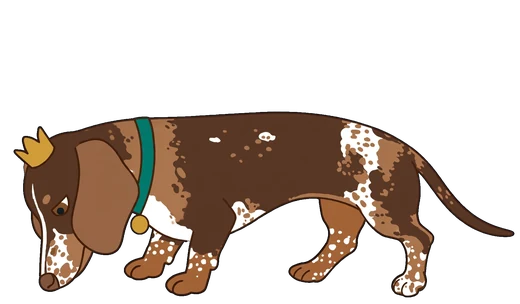
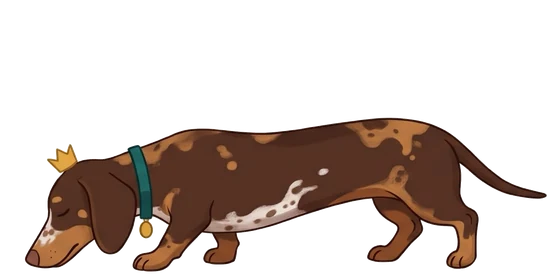
Todi from every illustration the owner sent: the four-on-a-sheet drawing on the street, the pink-backed set on the 404, his face from the car drawing on the search page
Claude-Session: https://claude.ai/code/session_01APuSXpyq9ev8sxuYFfmXoX

diff --git a/website/templates/_todi_dog.html b/website/templates/_todi_dog.html
@@ -1,10 +1,11 @@
-{# 2026-11-13 (owner: "this is what I have, work on it"): Todi from the owner's own illustrations, four poses of the
-   same drawing on one frame (static/todi/, cut out of their background): two walking steps, sniffing, looking up.
-   todi.js sets the pose classes (.is-walking, .is-sniffing, .is-looking) and the flip; style.css shows the right
-   picture, and while walking swaps the two steps. Decoration only. #}
-<span class="todi-dog todi-pic{{ ' ' ~ extra_class if extra_class else '' }}" aria-hidden="true">
-  <img class="f-walk1" src="/static/todi/todi-walk1.webp?v={{ static_version }}" alt="" width="520" height="304" decoding="async">
-  <img class="f-walk2" src="/static/todi/todi-walk2.webp?v={{ static_version }}" alt="" width="520" height="304" decoding="async">
-  <img class="f-sniff" src="/static/todi/todi-sniff.webp?v={{ static_version }}" alt="" width="520" height="304" decoding="async">
-  <img class="f-look" src="/static/todi/todi-look.webp?v={{ static_version }}" alt="" width="520" height="304" decoding="async">
+{# 2026-11-13 (owner: "this is what I have, work on it"; "use them all"): Todi from the owner's own illustrations, four
+   poses of the same drawing aligned on one frame (static/todi/, cut out of their background): two walking steps,
+   sniffing, looking up. Two sets: the four-on-one-sheet drawing (the default, the hero's street) and the pink-backed
+   one (todi_set = "pink-", the 404). todi.js sets the pose classes (.is-walking, .is-sniffing, .is-looking) and the
+   flip; style.css shows the right picture and, while walking, swaps the two steps. Decoration only. #}
+{% set _set = todi_set | default("") %}
+{% set _w, _h = (520, 304) if _set == "pink-" else (560, 276) %}
+<span class="todi-dog todi-pic{{ ' ' ~ extra_class if extra_class else '' }}" style="--ar: {{ _w }} / {{ _h }}" aria-hidden="true">
+  {% for pose in ("walk1", "walk2", "sniff", "look") %}<img class="f-{{ pose }}" src="/static/todi/{{ _set }}todi-{{ pose }}.webp?v={{ static_version }}" alt="" width="{{ _w }}" height="{{ _h }}" decoding="async">
+  {% endfor %}
 </span>

diff --git a/website/static/style.css b/website/static/style.css
@@ -2775,7 +2775,7 @@ html.is-app .app-add, html.is-app .app-sheet { display: none !important; }
    Todi (templates/_todi_dog.html): four pictures of the same drawing on one frame. One shows at a time: the first
    step when standing, the sniff, the look up; while walking the two steps take turns with a small bob. All of it
    stops for reduced motion and for the accessibility menu's "stop motion" (he then just stands). */
-.todi-pic { position: relative; display: block; width: 100%; aspect-ratio: 520 / 304; }
+.todi-pic { position: relative; display: block; width: 100%; aspect-ratio: var(--ar, 560 / 276); }
 .todi-pic img { position: absolute; inset: 0; width: 100%; height: 100%; opacity: 0; }
 .todi-pic .f-walk1 { opacity: 1; }
 .todi-pic.is-sniffing .f-walk1, .todi-pic.is-looking .f-walk1 { opacity: 0; }
@@ -2833,6 +2833,12 @@ html.a11y-no-motion .paw-steps i { opacity: .5; }
 /* the search page: the trail shows the moment the form is sent, until the results page comes in */
 .psearch-wait { margin: 26px 0 8px; padding: 22px 16px; border-radius: var(--radius-lg, 20px); background: var(--card); border: 1px solid var(--border); font-weight: 600; flex-wrap: wrap; text-align: center; }
 .psearch-wait[hidden] { display: none; }
+/* Todi's face (from the owner's illustration of him in the car), nodding along while he sniffs */
+.psearch-todi { width: 54px; height: 54px; border-radius: 50%; flex: none; box-shadow: 0 0 0 3px var(--card), 0 0 0 4px var(--border); }
+@media (prefers-reduced-motion: no-preference) {
+  html:not(.a11y-no-motion) .psearch-todi { animation: td-nod 1.1s ease-in-out infinite; }
+}
+@keyframes td-nod { 0%, 100% { transform: rotate(0deg); } 30% { transform: rotate(-6deg) translateY(2px); } 60% { transform: rotate(4deg); } }
 
 /* the 404 page: Todi follows a trail of scent and can't find the page (404.html runs the story with todi.js) */
 .lost-scene { position: relative; width: min(320px, 100%); height: 120px; margin: 0 auto 18px; }

diff --git a/website/templates/search.html b/website/templates/search.html
@@ -40,6 +40,7 @@
   {# 2026-11-13 (owner: paw prints instead of a spinning wheel): from the moment the form is sent until the results
      page comes in #}
   <div class="psearch-wait paw-trail" id="psearch-wait" role="status" hidden>
+    <img class="psearch-todi" src="/static/todi/todi-face.webp?v={{ static_version }}" alt="" width="54" height="54" loading="lazy">
     <span class="paw-steps" aria-hidden="true"><i></i><i></i><i></i><i></i><i></i><i></i></span>
     <span>{{ t('search.sniffing') }}</span>
   </div>

diff --git a/website/templates/404.html b/website/templates/404.html
@@ -5,7 +5,7 @@
   {# 2026-11-13 (owner: drawings of Todi on the site): Todi sniffs along a trail for the page and can't find it #}
   <div class="lost-scene" id="lost-scene" aria-hidden="true">
     <span class="lost-trail"></span>
-    <div class="td-walker" id="lost-walker">{% include "_todi_dog.html" %}</div>
+    {% set todi_set = "pink-" %}<div class="td-walker" id="lost-walker">{% include "_todi_dog.html" %}</div>
     <span class="lost-q" id="lost-q">?</span>
   </div>
   <p>{{ t('404.body') }}</p>

diff --git a/tests/test_site_animations.py b/tests/test_site_animations.py
@@ -102,7 +102,7 @@ def test_every_new_motion_stops_for_reduced_motion_and_the_accessibility_menu():
     """Each new looping animation is written behind both switches: the visitor's "reduce motion" and the site's own
     accessibility menu ("stop motion" puts .a11y-no-motion on the page)."""
     css = (STATIC / "style.css").read_text() + (STATIC / "home.css").read_text()
-    for name in ("td-step-a", "td-step-b", "td-bob", "td-sniff", "paw-print", "lp-pin-drop", "lp-route"):
+    for name in ("td-step-a", "td-step-b", "td-bob", "td-sniff", "td-nod", "paw-print", "lp-pin-drop", "lp-route"):
         uses = [line for line in css.splitlines() if re.search(r"animation:\s*" + name + r"\b", line)]
         assert uses, name
         assert all("html:not(.a11y-no-motion)" in line for line in uses), name
@@ -132,3 +132,7 @@ def test_todi_is_the_owners_four_pictures(client):
         assert f"/static/todi/todi-{pose}.webp" in html
         assert (STATIC / "todi" / f"todi-{pose}.webp").stat().st_size < 60_000
     assert "todi3d" not in html and not (STATIC / "todi3d.js").exists()
+    # the 404 has the pink-backed set, the search page Todi's face from the car drawing
+    lost = client.get("/no-such-page-at-all").text
+    assert "/static/todi/pink-todi-sniff.webp" in lost and "/static/todi/todi-walk1.webp" not in lost
+    assert "/static/todi/todi-face.webp" in client.get("/search?lang=he").text

diff --git a/HANDOFF.md b/HANDOFF.md
@@ -34,8 +34,8 @@
 
 ## בתהליך
 - PR האנימציות מוזג (13.11, 05:00). PR #1019 (`claude/footer-and-3d-todi`): תחתית הדף ב-4 קטגוריות; הכפתורים הצפים
-  (נגישות, עוזר, הוספה למסך הבית) בשורה אחת מעל כפתור הבוט הצמוד; טודי ברחוב וב-404 מ-4 האיורים של אמיר
-  (`static/todi/`, רקע הוסר). טודי בתלת-ממד נוסה והוסר (אמיר: מזעזע). הכרטיס המתפרק נשאר בתלת-ממד. מחכה לאישור.
+  (נגישות, עוזר, הוספה למסך הבית) בשורה אחת מעל כפתור הבוט הצמוד; טודי מהאיורים של אמיר (`static/todi/`, רקע הוסר):
+  ברחוב מגיליון ה-4, ב-404 מהסט הוורוד (`pink-`), בעמוד החיפוש פנים עגולות מהאיור במכונית (`todi-face.webp`). טודי בתלת-ממד נוסה והוסר (אמיר: מזעזע). הכרטיס המתפרק נשאר בתלת-ממד. מחכה לאישור.
 
 ## מחכה לאמיר
 1. **יד2 כמעט לא מביא מודעות מאז 10.11** (2,214 ביום ב-9.11, 184 ב-10.11, 55 ב-11.11 עד 13:45). בכל ריצה:
